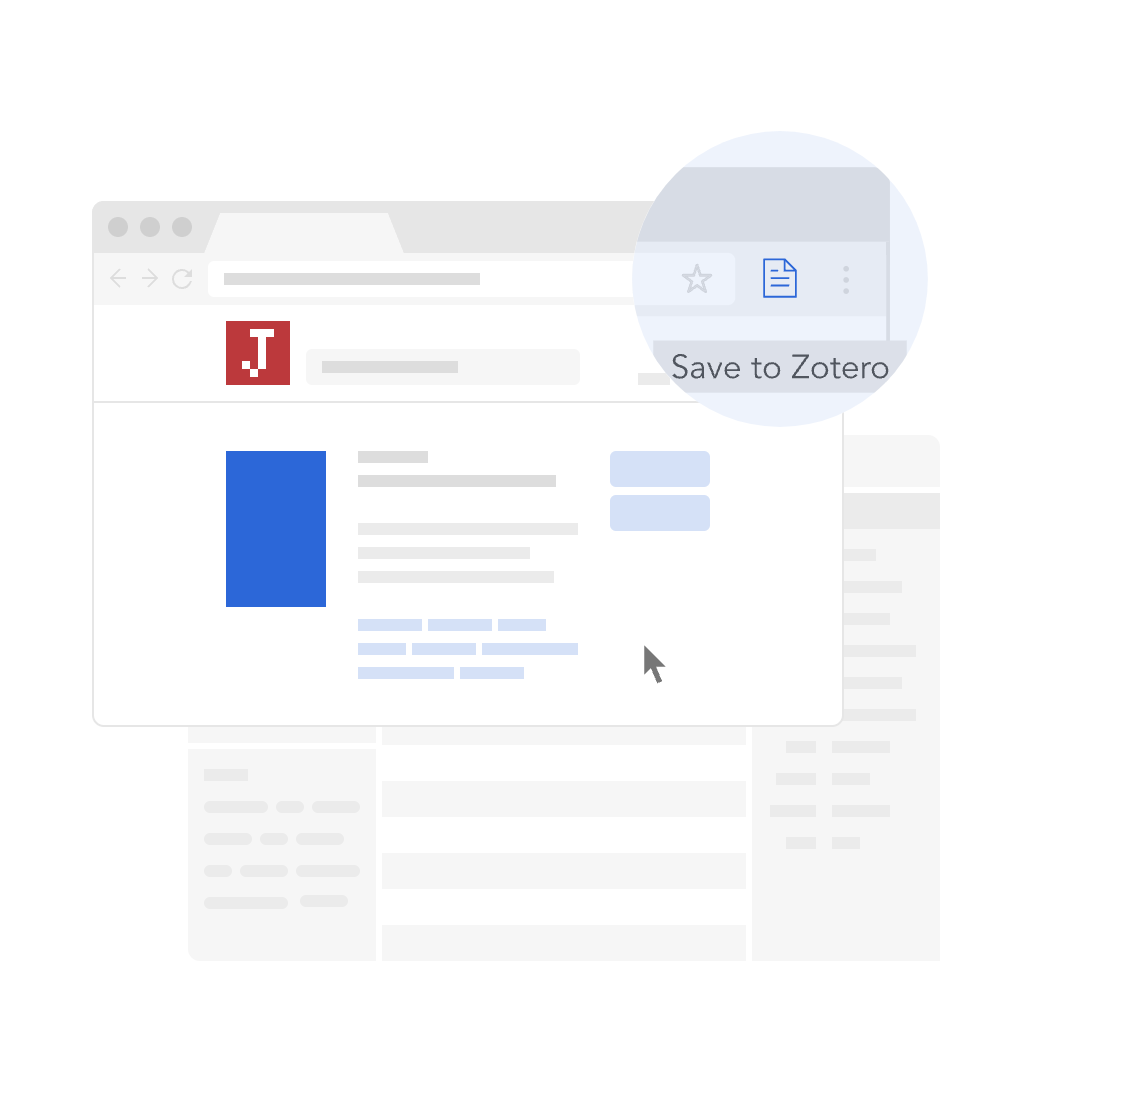
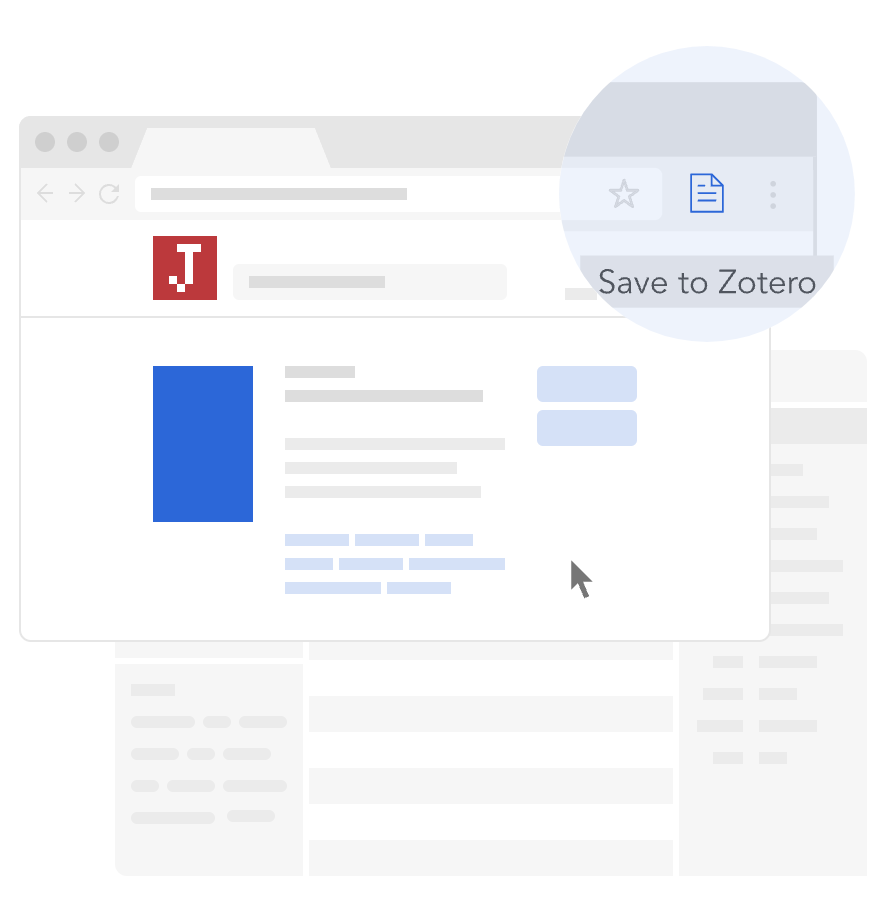
doc: 去除多余的白色边框，更新图片说明

diff --git a/src/user-guide/00-why-use-zotero.md b/src/user-guide/00-why-use-zotero.md
@@ -28,11 +28,11 @@ Zotero 将是你优秀的科研助手！
 
 ### Zotero 优势
 
-![截屏2022-10-23 20.14.48.png](../assets/image-zotero官方-渲染图-connector.png)
+![浏览器快速抓取文献至Zotero](../assets/image-zotero官方-渲染图-connector.png)
 
-![截屏2022-10-23 20.15.01.png](../assets/image-zotero官方-渲染图-管理条目.png)
+![清晰明了的分层管理及标签分类](../assets/image-zotero官方-渲染图-管理条目.png)
 
-![截屏2022-10-23 20.15.09.png](../assets/image-zotero官方-插入引文.png)
+![写作时方便快速的插入引文](../assets/image-zotero官方-插入引文.png)
 
 一键抓取文献，保存一切
 
